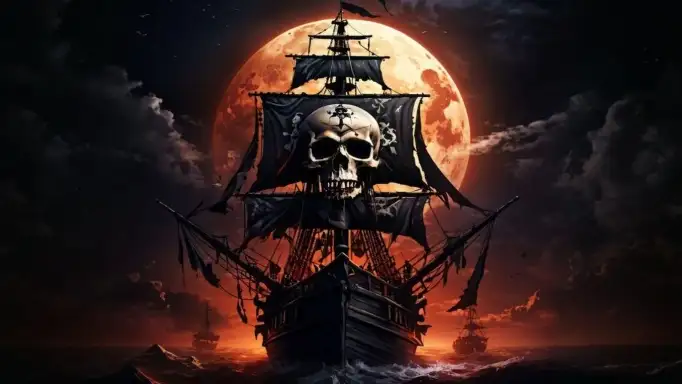
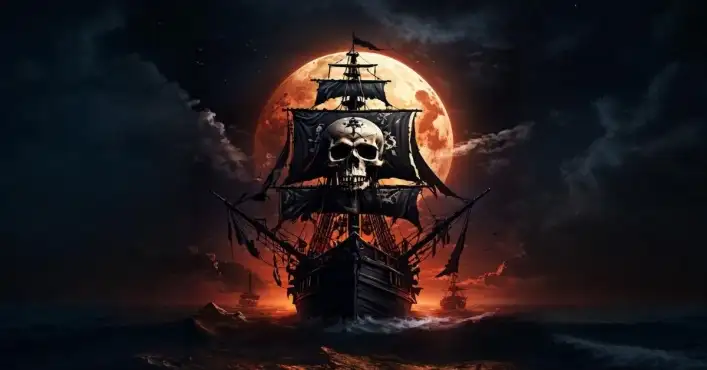
addded background on body

diff --git a/styles.css b/styles.css
@@ -1,5 +1,9 @@
 body {
-  background-color: black;
+  /* background-color: black; */
+  background-image: url("images/background.webp");
+  background-size: cover;
+  background-position: bottom;
+  background-repeat: no-repeat;
   color: white;
   margin: 0;
   display: flex;
@@ -13,11 +17,15 @@ body {
 
 .title {
   font-size: 50px;
+  text-shadow: -1px -1px 0 black, 1px -1px 0 black, -1px 1px 0 black,
+    1px 1px 0 black;
 }
 
 .footer {
   margin-top: 50px;
   font-size: 20px;
+  text-shadow: -1px -1px 0 black, 1px -1px 0 black, -1px 1px 0 black,
+    1px 1px 0 black;
 }
 
 .level {
@@ -65,11 +73,12 @@ body {
 .screen {
   width: 550px;
   height: 280px;
-  background-image: url("images/d.jpg");
-  /* background-color: black; */
+  /* background-image: url("images/background.webp"); */
+  background-color: black;
   background-position: center;
   background-size: cover;
   background-repeat: no-repeat;
+  visibility: hidden;
   transition: all 0s ease-out;
   position: relative;
   display: flex;
@@ -115,9 +124,11 @@ body {
   border: none;
   font-family: "VT323", monospace;
   color: white;
-  background-color: black;
+  background-color: transparent;
   font-size: 50px;
   cursor: pointer;
+  text-shadow: -1px -1px 0 black, 1px -1px 0 black, -1px 1px 0 black,
+    1px 1px 0 black;
 }
 
 .comments {

diff --git a/game.js b/game.js
@@ -7,6 +7,7 @@ const pirateEscaped = "PIRATE ESCAPED";
 const music = new Audio("sounds/music.mp3");
 
 // let logo = document.querySelector(".logo");
+let body = document.querySelector(".body");
 let start = document.querySelector(".play");
 start.addEventListener("click", play);
 
@@ -20,8 +21,10 @@ let commentsPanel = document.querySelector(".comments");
 
 function play() {
   // logo.style.visibility = "hidden";
+  body.style.background = "black";
   start.style.display = "none";
   message.textContent = "";
+  screen.style.visibility = "visible";
   scorePanel.style.visibility = "visible";
   levelPanel.style.visibility = "visible";
   refreshScore(score);
@@ -75,8 +78,13 @@ function retry(text) {
   screen.style.background = initialScreenBackground;
   // logo.style.visibility = "visible";
   message.textContent = text;
+  body.style.backgroundImage = `url('./images/background.webp')`;
+  body.style.backgroundSize = "cover";
+  body.style.backgroundPosition = "bottom";
+  body.style.backgroundRepeat = "no-repeat";
   start.textContent = "RETRY";
   start.style.display = "block";
+  screen.style.visibility = "hidden";
   scorePanel.style.visibility = "hidden";
   levelPanel.style.visibility = "hidden";
   commentsPanel.textContent = "";

diff --git a/index.html b/index.html
@@ -15,7 +15,7 @@
     <link rel="icon" href="favicon.ico" />
     <link rel="stylesheet" href="styles.css" />
   </head>
-  <body>
+  <body class="body">
     <h1 class="title">PIRATE HUNTER</h1>
     <div class="screen">
       <span class="level"></span>
